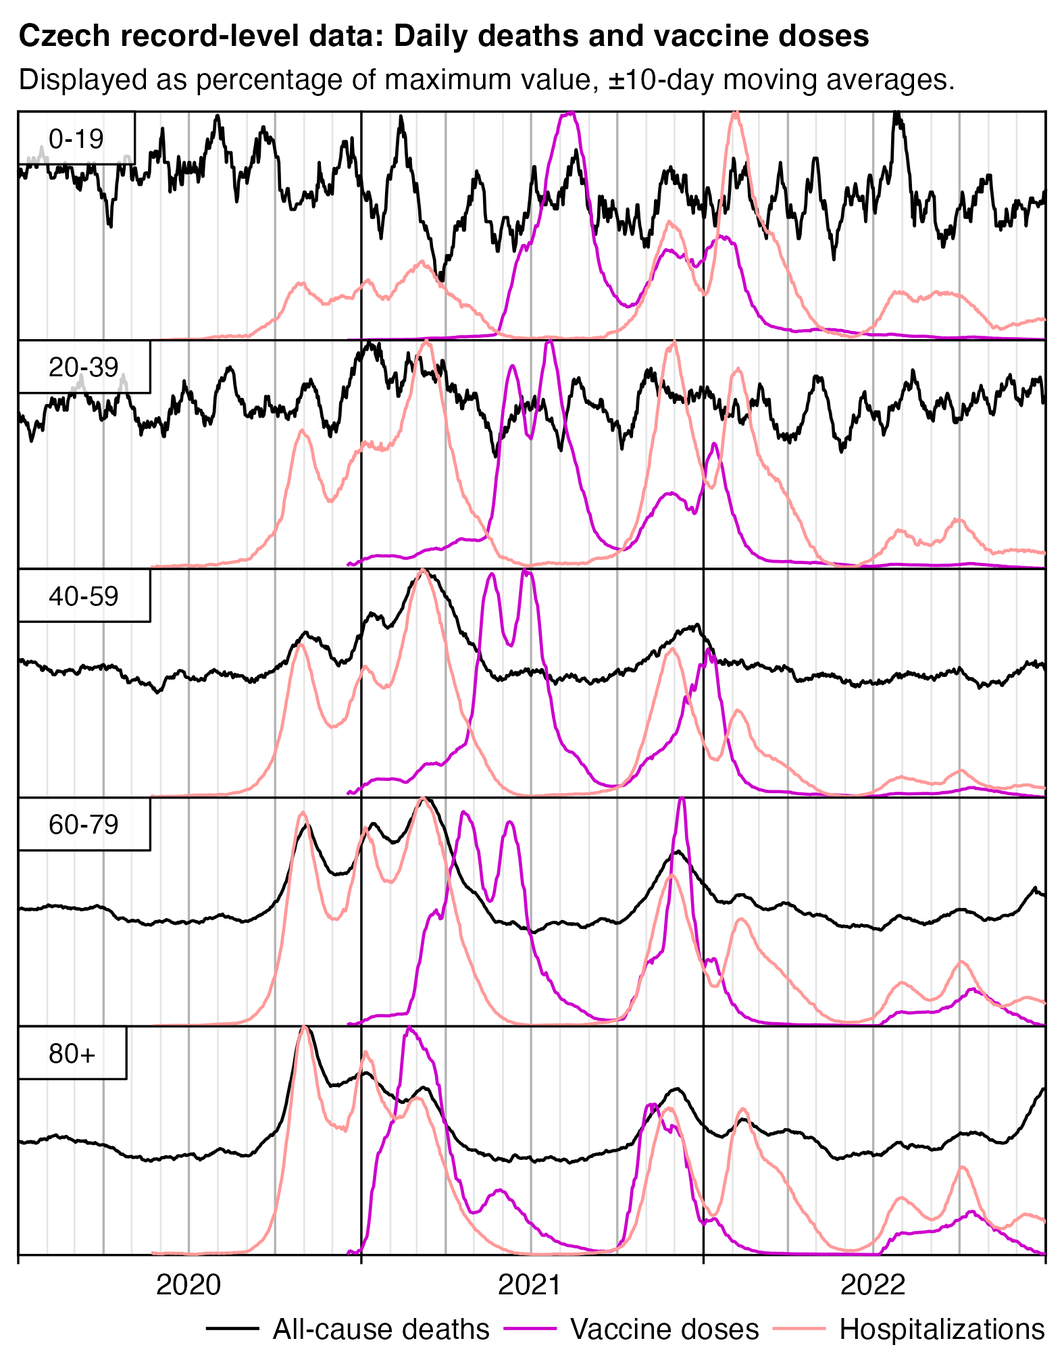
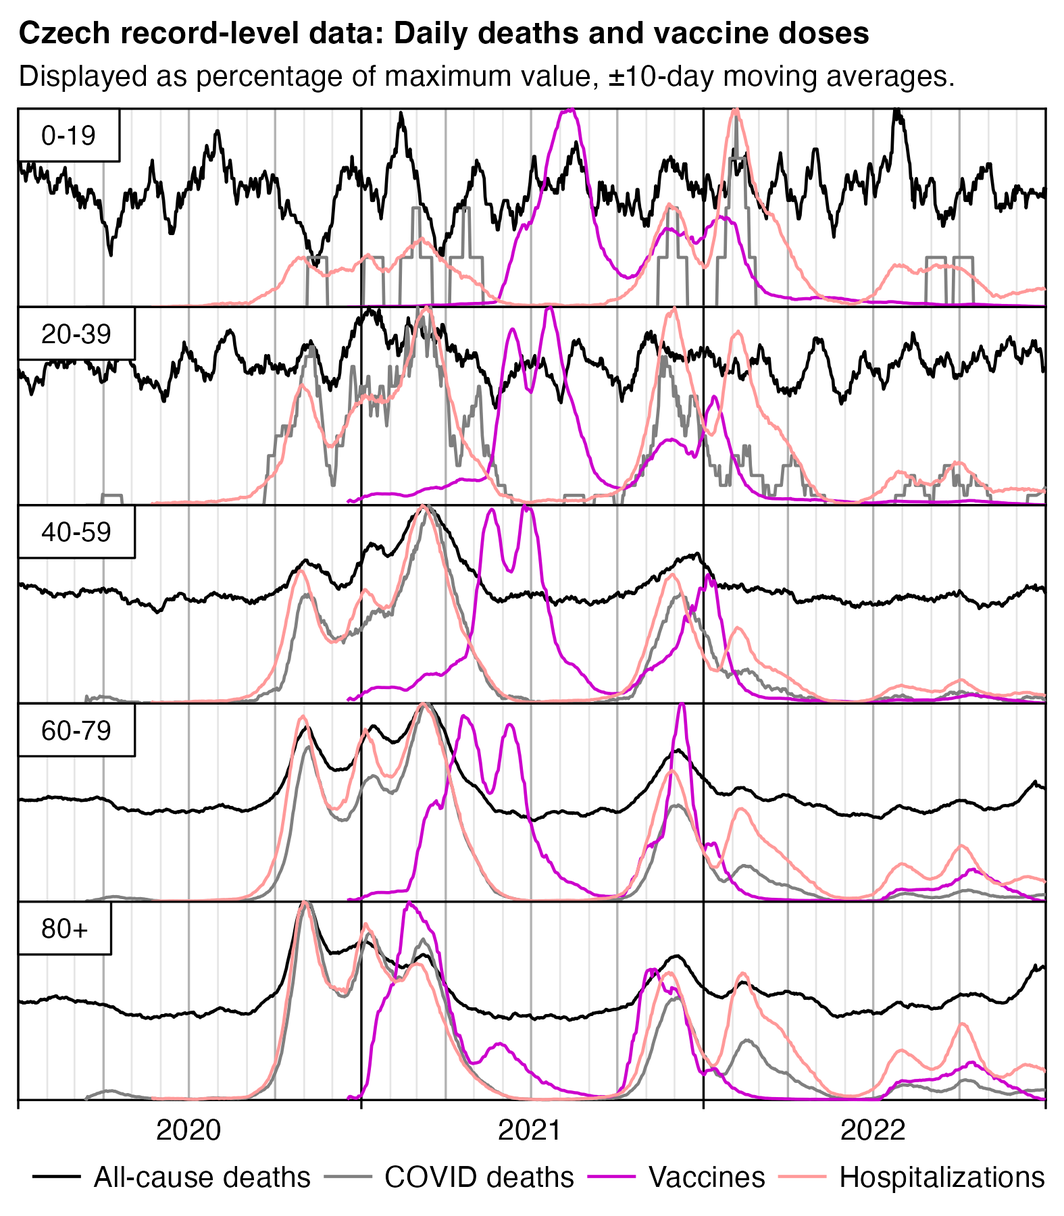
a

diff --git a/czech.html b/czech.html
@@ -76,6 +76,7 @@ th{background:#3a3a3a;text-align:left;font-weight:bold}
 <li><a href=#Hospitalizations_peaked_in_2022_in_youngest_age_groups>Hospitalizations peaked in 2022 in youngest age groups</a></li>
 <li><a href=#Moderna_Pfizer_ratio_in_ages_70_79_in_2021Q4>Moderna-Pfizer ratio in ages 70-79 in 2021Q4</a></li>
 <li><a href=#Triangle_plot_of_Moderna_Pfizer_ratio>Triangle plot of Moderna-Pfizer ratio</a></li>
+<li><a href=#Stacked_plot_of_multiple_variables_from_record_level_data_and_Czech_MoH_data>Stacked plot of multiple variables from record-level data and Czech MoH data</a></li>
 </ul>
 
 <h2>
@@ -98,9 +99,10 @@ th{background:#3a3a3a;text-align:left;font-weight:bold}
 <li><a href=f/czweeklydead.csv>f/czweeklydead.csv</a> (119 kiB): Weekly number of deaths by 5-year age groups published by the <a href=https://vdb.czso.cz/vdbvo2/faces/en/index.jsf?page=vystup-objekt-parametry&pvo=DEMD007KR-R2024&sp=A&skupId=3629&pvokc=&katalog=30845&z=T>Czech Statistical Bureau</a>.</li>
 <li><a href=f/czdeadproj.csv>f/czdeadproj.csv</a> (4 MiB): Daily projected deaths by 5-year age groups derived from a seasonality-adjusted linear trend in CMR in 2010-2019 multiplied by population size. Also includes daily deaths by 5-year age groups interpolated from weekly deaths by 5-year age groups and daily population estimates by 5-year age groups interpolated from Eurostat's yearly population estimates.</li>
 </ul>
-<p>COVID data:</p>
+<p>COVID data published by Czech ministry of health: [<a href="https://onemocneni-aktualne.mzcr.cz/api/v2/covid-19">https://onemocneni-aktualne.mzcr.cz/api/v2/covid-19</a>]</p>
 <ul>
-<li><a href="https://onemocneni-aktualne.mzcr.cz/api/v2/covid-19/nakazeni-hospitalizace-testy.csv">https://onemocneni-aktualne.mzcr.cz/api/v2/covid-19/nakazeni-hospitalizace-testy.csv</a> (34 MiB): Tests, hospitalizations, and cases by age group. Available from here: <a href="https://onemocneni-aktualne.mzcr.cz/api/v2/covid-19">https://onemocneni-aktualne.mzcr.cz/api/v2/covid-19</a>.</li>
+<li><a href="https://onemocneni-aktualne.mzcr.cz/api/v2/covid-19/nakazeni-hospitalizace-testy.csv">https://onemocneni-aktualne.mzcr.cz/api/v2/covid-19/nakazeni-hospitalizace-testy.csv</a> (34 MiB): Tests, hospitalizations, and cases by age group and day.</li>
+<li><a href="https://onemocneni-aktualne.mzcr.cz/api/v2/covid-19/umrti.csv">https://onemocneni-aktualne.mzcr.cz/api/v2/covid-19/umrti.csv</a> (3 MiB): COVID deaths by day and single year of age.</li>
 </ul>
 <h2>
 <a href=#Were_Pfizer_and_Moderna_vaccines_allocated_randomly id=Were_Pfizer_and_Moderna_vaccines_allocated_randomly>Were Pfizer and Moderna vaccines allocated randomly?</a>
@@ -357,7 +359,7 @@ type          2021-07 2021-08 2021-09 2021-10 2021-11 2021-12
 
 cutl=\(x,y)cut(x,c(y,Inf),y,T,F)
 isoweek=\(year,week,weekday=1){d=as.Date(paste0(year,&quot;-1-4&quot;));d-(as.integer(format(d,&quot;%w&quot;))+6)%%7-1+7*(week-1)+weekday}
-ma=\(x,b=1,f=b)rowMeans(embed(c(rep(NA,b),x,rep(NA,f)),f+b+1),na.rm=T)
+ma=\(x,b=1,f=b){x[]=rowMeans(embed(c(rep(NA,b),x,rep(NA,f)),f+b+1),na.rm=T);x}
 
 dead=read.csv(&quot;http://sars2.net/f/czweeklydead.csv&quot;)
 xstart=as.Date(&quot;2020-1-1&quot;);xend=as.Date(&quot;2022-12-31&quot;)
@@ -1126,8 +1128,8 @@ type              0   10   20   30   40   50   60   70   80   90
 <img src="i/czech-allpop.png">
 </div>
 <p>This shows that the percentage of vaccinated person-days out of all person-days first reached above 50% in March in ages 90+ and 80-89, in April in ages 70-79, in May in ages 60-69, and in June in ages 50-59:</p>
-<pre>&gt; t=fread(&quot;http://sars2.net/f/czbucketskeep.csv.gz&quot;)[dose&lt;=1]
-&gt; t[,.(vaxpct=sum(alive[dose==1])/sum(alive)*100),.(month,age=pmin(age%/%10*10,90))]|&gt;with(round(xtabs(vaxpct~month+age)[12:24,]))
+<pre>&gt; b=fread(&quot;http://sars2.net/f/czbucketskeep.csv.gz&quot;)[dose&lt;=1]
+&gt; b[,.(vaxpct=sum(alive[dose==1])/sum(alive)*100),.(month,age=pmin(age%/%10*10,90))][,round(xtabs(vaxpct~month+age))[12:24,]]
          age
 month      0 10 20 30 40 50 60 70 80 90
   2020-12  0  0  0  0  0  0  0  0  0  0
@@ -1285,33 +1287,35 @@ system(paste0(&quot;w=`identify -format %w i1.png`;pad=44;convert -gravity north
 <div class="width6">
 <img src="i/czech-facet-asmr.png">
 </div>
-<p>I haven't found data for COVID deaths by age group in the Czech Republic, but the CSV files from here have COVID hospitalizations by age group: <a href="https://onemocneni-aktualne.mzcr.cz/api/v2/covid-19">https://onemocneni-aktualne.mzcr.cz/api/v2/covid-19</a>. Hospitalizations also have similar three-hump pattern as all-cause deaths, and in ages 80+ the first hump is the highest and the third hump is the lowest, but in ages 60-79 and 40-59 the third hump is higher than the first hump:</p>
+<p>The Czech ministry of health has published CSV files for COVID deaths and hospitalizations by age: <a href="https://onemocneni-aktualne.mzcr.cz/api/v2/covid-19">https://onemocneni-aktualne.mzcr.cz/api/v2/covid-19</a>. Both COVID deaths and hospitalizations also have similar three-hump pattern as all-cause deaths, and in ages 80+ the first hump is the highest and the third hump is the lowest, but in ages 60-79 and 40-59 the third hump is higher than the first hump:</p>
 <div class="width6">
 <img src="i/czech-facet-hosp.png">
 </div>
 <pre>download.file(&quot;https://onemocneni-aktualne.mzcr.cz/api/v2/covid-19/nakazeni-hospitalizace-testy.csv&quot;,&quot;nakazeni-hospitalizace-testy.csv&quot;)
+download.file(&quot;http://sars2.net/f/czbucketsdaily.csv.gz&quot;,&quot;czbucketsdaily.csv.gz&quot;)
+download.file(&quot;https://onemocneni-aktualne.mzcr.cz/api/v2/covid-19/umrti.csv&quot;,&quot;umrti.csv&quot;)
 
 library(data.table);library(ggplot2)
 
 ma=\(x,b=1,f=b)setNames(rowMeans(embed(c(rep(NA,b),x,rep(NA,f)),f+b+1),na.rm=T),names(x))
 ua=\(x,y,...){u=unique(x);y(u,...)[match(x,u)]}
-age=\(x,y){class(x)=class(y)=NULL;(y-x-(y-789)%/%1461+(x-789)%/%1461)%/%365}
+age=\(x,y){x=as.numeric(x);y=as.numeric(y);(y-x-(y-789)%/%1461+(x-789)%/%1461)%/%365}
 
 agecut=\(x,ages=seq(0,90,10))cut(pmax(x,0),c(ages,Inf),paste0(ages,c(paste0(&quot;-&quot;,ages[-1]-1),&quot;+&quot;)),T,F)
-ages=0:4*20
 # ages=c(0,12,18,30,40,60,85)
+ages=0:4*20
 agelev=agecut(0:120,ages)
 
 xstart=as.Date(&quot;2020-01-01&quot;);xend=as.Date(&quot;2023-1-1&quot;)
 
 rec=fread(&quot;Czech/data/CR_records.csv&quot;,showProgress=F)
-set.seed(0);rec[,birth:=ua(paste0(Rok_narozeni,&quot;-1-1&quot;),as.Date)+sample(0:364,.N,T)]
+set.seed(0);rec$birth=ua(paste0(rec$Rok_narozeni,&quot;-1-1&quot;),as.Date)+sample(0:364,nrow(rec),T)
 dead=rec[!is.na(DatumUmrti),.(dead=.N),.(date=DatumUmrti,age=agelev[pmax(0,age(birth,DatumUmrti))+1])]
-k=grep(&quot;Datum&quot;,names(rec));dt=data.table(date=`class&lt;-`(unlist(rec[,..k],,F),&quot;IDate&quot;),birth=rec$birth)
-p=merge(dead,dt[!is.na(date)][,.(vax=.N),.(date,age=agelev[pmax(0,age(birth,date))+1])])
+k=grep(&quot;Datum_&quot;,names(rec));dt=data.table(date=as.IDate(unlist(rec[,..k],use.names=F)),birth=rec$birth)
+p=merge(dead,dt[!is.na(date)][,.(vax=.N),.(date,age=agelev[pmax(0,age(birth,date))+1])],all=T)
 
 std=fread(&quot;http://sars2.net/f/czcensus2021pop.csv&quot;)$pop
-buck=fread(&quot;http://sars2.net/f/czbucketsdaily.csv.gz&quot;)
+buck=fread(&quot;czbucketsdaily.csv.gz&quot;)
 buck=rbind(buck,cbind(expand.grid(date=as.IDate(xstart:xend),age=0:100,dose=unique(buck$dose)),alive=0,dead=0))|&gt;unique(by=1:3)
 unvax=buck[dose==0&amp;alive&gt;=1e3,.(dead=sum(dead),alive=sum(alive)),.(date,age2=age)]
 vax=buck[dose&gt;0&amp;alive&gt;=1e3,.(dead=sum(dead),alive=sum(alive)),.(date,age2=age)]
@@ -1323,23 +1327,30 @@ testy=fread(&quot;nakazeni-hospitalizace-testy.csv&quot;,na.strings=&quot;-&quot
 testy=testy[,.(tests=sum(provedene_testy,na.rm=T),cases=sum(potvrzene_pripady,na.rm=T),hosp=sum(nove_hospitalizace,na.rm=T)),.(date=datum,age=agelev[as.numeric(sub(&quot;[-+].*&quot;,&quot;&quot;,vekova_kategorie))+1])][!is.na(age)]
 p=merge(p,testy[tests&gt;0,.(date,age,pcr=cases/tests*100,hosp)],all=T)
 
+p=merge(p,fread(&quot;umrti.csv&quot;)[,.(coviddead=.N),.(date=datum,age=agelev[vek+1])],all=T)
+
 p=p[date%in%xstart:xend]
+
 p$dead[is.na(p$dead)]=0
+p$coviddead[is.na(p$coviddead)&amp;p$date&gt;p$date[!is.na(p$coviddead)][1]]=0
+p$vax[is.na(p$vax)&amp;p$date&gt;p$date[!is.na(p$vax)][1]]=0
+p$hosp[is.na(p$hosp)&amp;p$date&gt;p$date[!is.na(p$hosp)][1]]=0
 
 xbreak=seq(xstart,xend,&quot;6 month&quot;);xlab=c(rbind(&quot;&quot;,2020:2022),&quot;&quot;)
 
 var=read.csv(row.names=1,text=&quot;name,group
-dead,Deaths,1
+dead,All-cause deaths,1
 vax,Vaccines,2
 asmr1,Unvaccinated ASMR,3
 asmr2,Vaccinated ASMR,3
 hosp,Hospitalizations,4
-pcr,PCR positivity,5&quot;)
-var$color=c(&quot;black&quot;,&quot;#cc00cc&quot;,hsv(7/12,1,.8),hsv(0,1,.8),hsv(0,.4,1),hsv(1/3,1,.7))
+pcr,PCR positivity,5
+coviddead,COVID deaths,6&quot;)
+var$color=c(&quot;black&quot;,&quot;#cc00cc&quot;,hsv(7/12,1,.8),hsv(0,1,.8),hsv(0,.4,1),hsv(1/3,1,.7),&quot;gray50&quot;)
 
-keep=c(&quot;dead&quot;,&quot;vax&quot;)
+# keep=c(&quot;dead&quot;,&quot;vax&quot;)
 # keep=c(&quot;vax&quot;,&quot;asmr1&quot;,&quot;asmr2&quot;)
-# keep=c(&quot;dead&quot;,&quot;vax&quot;,&quot;hosp&quot;,&quot;pcr&quot;)
+keep=c(&quot;dead&quot;,&quot;coviddead&quot;,&quot;vax&quot;,&quot;hosp&quot;)
 long=cbind(p[,1:2],y=unlist(p[,..keep],,F),z=factor(rep(keep,each=nrow(p)),keep))
 color=var[keep,]$color
 long[,mav:=ma(y,10),.(age,z)]
@@ -1351,8 +1362,7 @@ ggplot(long,aes(x=date))+
 facet_wrap(~age,ncol=1,strip.position=&quot;top&quot;)+
 geom_vline(xintercept=seq(xstart,xend,&quot;month&quot;),linewidth=.2,color=&quot;gray90&quot;)+
 geom_vline(xintercept=seq(xstart,xend,&quot;3 month&quot;),linewidth=.25,color=&quot;gray70&quot;)+
-geom_vline(xintercept=seq(xstart,xend,&quot;year&quot;),linewidth=.25,lineend=&quot;square&quot;,color=&quot;black&quot;)+
-geom_vline(xintercept=c(xstart,xend),linewidth=.25,lineend=&quot;square&quot;)+
+geom_vline(xintercept=seq(xstart,xend,&quot;year&quot;),linewidth=.25,lineend=&quot;square&quot;)+
 geom_hline(yintercept=0:1,linewidth=.25,lineend=&quot;square&quot;)+
 geom_line(aes(y=mav/max,color=z),linewidth=.35)+
 geom_label(data=data.frame(age=levels(p$age)),aes(label=paste0(&quot;\n   &quot;,age,&quot;   \n&quot;)),x=xstart,y=1,lineheight=.5,hjust=0,vjust=1,size=2.3,fill=alpha(&quot;white&quot;,1),label.r=unit(0,&quot;lines&quot;),label.padding=unit(0,&quot;lines&quot;),label.size=.25)+
@@ -1361,6 +1371,7 @@ scale_x_date(limits=c(xstart,xend),breaks=xbreak,labels=xlab)+
 scale_y_continuous(limits=0:1)+
 scale_color_manual(values=color)+
 coord_cartesian(clip=&quot;off&quot;,expand=F)+
+guides(color=guide_legend(nrow=1,byrow=F))+
 theme(axis.text=element_text(size=7,color=&quot;black&quot;),
   axis.text.y=element_blank(),
   axis.ticks=element_blank(),
@@ -1374,7 +1385,7 @@ theme(axis.text=element_text(size=7,color=&quot;black&quot;),
   legend.key.height=unit(.7,&quot;lines&quot;),
   legend.key.width=unit(1.1,&quot;lines&quot;),
   legend.key=element_rect(fill=alpha(&quot;white&quot;,0)),
-  legend.margin=margin(.1,0,0,0,&quot;lines&quot;),
+  legend.margin=margin(.15,0,0,0,&quot;lines&quot;),
   legend.position=&quot;bottom&quot;,
   legend.spacing.x=unit(.1,&quot;lines&quot;),
   legend.text=element_text(size=7,vjust=.5),
@@ -1384,7 +1395,7 @@ theme(axis.text=element_text(size=7,color=&quot;black&quot;),
   panel.grid=element_blank(),
   plot.margin=margin(.3,.3,.3,.3,&quot;lines&quot;),
   plot.subtitle=element_text(size=7,margin=margin(0,0,.6,0,&quot;lines&quot;)),
-  plot.title=element_text(size=7.5,face=&quot;bold&quot;,margin=margin(.2,0,.5,0,&quot;lines&quot;)),
+  plot.title=element_text(size=7.5,face=&quot;bold&quot;,margin=margin(.1,0,.5,0,&quot;lines&quot;)),
   strip.background=element_blank(),
   strip.text=element_blank())
 ggsave(&quot;1.png&quot;,width=3.5,height=4,dpi=450)</pre>
@@ -1425,7 +1436,7 @@ MD5 (Vesely_106_202403141131.csv) = c42ead8cf4685910068d0c7d4cc4c720</pre>
 &gt; name1=c(&quot;Comirnaty&quot;,&quot;SPIKEVAX&quot;,&quot;VAXZEVRIA&quot;,&quot;COVID-19 Vaccine Janssen&quot;,&quot;&quot;)
 &gt; name2=c(&quot;Pfizer&quot;,&quot;Moderna&quot;,&quot;AstraZeneca&quot;,&quot;Janssen&quot;,&quot;&quot;)
 &gt; type=ifelse(type%in%name1,name2[match(type,name1)],&quot;Other&quot;)
-&gt; m=data.table(date,type)[type!=&quot;&quot;,.N,.(date,type)]|&gt;with(xtabs(N~date+type))
+&gt; m=data.table(date,type)[type!=&quot;&quot;,.N,.(date,type)][,xtabs(N~date+type)]
 &gt; round(m/rowSums(m)*100,1)
          type
 date      AstraZeneca Janssen Moderna Other Pfizer
@@ -1505,7 +1516,7 @@ year      0  20  40  60  80 Total
 &gt; t=t[,.(alive=sum(as.double(alive)),dead=sum(dead)),.(dose,month,age=factor(pmin(100,age%/%10*10)))]
 &gt; t=rbind(t,t[,.(alive=sum(alive),dead=sum(dead),month=&quot;Total&quot;),.(age,dose)])
 &gt; t=rbind(t,t[,.(alive=sum(alive),dead=sum(dead),age=&quot;Total&quot;),.(month,dose)])
-&gt; t[,.(vaxpct=sum(alive[dose==1])/sum(alive)*100),.(month,age)]|&gt;with(round(xtabs(vaxpct~month+age)))
+&gt; t[,.(vaxpct=sum(alive[dose==1])/sum(alive)*100),.(month,age)][,round(xtabs(vaxpct~month+age))]
          age
 month      0 10 20 30 40 50 60 70 80 90 100 Total
   2020-12  0  0  0  0  0  0  0  0  0  0   0     0
@@ -1537,7 +1548,7 @@ month      0 10 20 30 40 50 60 70 80 90 100 Total
 <h2>
 <a href=#Hospitalizations_peaked_in_2022_in_youngest_age_groups id=Hospitalizations_peaked_in_2022_in_youngest_age_groups>Hospitalizations peaked in 2022 in youngest age groups</a>
 </h2>
-<p>I didn't find data for COVID deaths by age in Czech Republic, but the CSV files from here have data for hospitalizations by age: <a href="https://onemocneni-aktualne.mzcr.cz/api/v2/covid-19">https://onemocneni-aktualne.mzcr.cz/api/v2/covid-19</a>. In ages 0-11, 12-17, and 18-29, the highest peak in COVID hospitalizations was in early 2022, which might be because people under 30 were less likely to be vaccinated than older age groups:</p>
+<p>The Czech ministry of health has published data for hospitalizations by age: <a href="https://onemocneni-aktualne.mzcr.cz/api/v2/covid-19">https://onemocneni-aktualne.mzcr.cz/api/v2/covid-19</a>. In ages 0-11, 12-17, and 18-29, the highest peak in COVID hospitalizations was in early 2022, which might be because people the youngest age groups were less likely to be vaccinated in 2022 than older age groups:</p>
 <div class="width6">
 <img src="i/czech-facetbig.png">
 </div>
@@ -1634,10 +1645,10 @@ vaxquarter  0   10   20   30   40   50   60   70   80    90  100 Total
 <a href=#Triangle_plot_of_Moderna_Pfizer_ratio id=Triangle_plot_of_Moderna_Pfizer_ratio>Triangle plot of Moderna-Pfizer ratio</a>
 </h2>
 <p>In the plot below I calculated mortality relative to the baseline using the same method as in earlier sections of this HTML file, so that for each cell of the heatmap, I multiplied a vector of the number of person-days for each age by a vector of mortality rates the same month among each age in the total population that is included in the record-level data.</p>
-<p>Moderna had 18019 actual deaths and about 18220.05 expected deaths, and Pfizer had 94068 actual deaths and about 125238.85 expected deaths, so I calculated the total Moderna-Pfizer ratio as <code>(18019/18220.05)/(94068/125238.85)</code> which is about 1.32.</p>
+<p>For example Moderna had 18019 actual deaths and about 18220.05 expected deaths, and Pfizer had 94068 actual deaths and about 125238.85 expected deaths, so I calculated the total Moderna-Pfizer ratio as <code>(18019/18220.05)/(94068/125238.85)</code>, which is about 1.32.</p>
 <p>The plot below shows that people who were vaccinated in January 2021 had a total Moderna-Pfizer ratio of about 2.3. However the ratio continued to remain high even in late 2022 which was almost two years after vaccination. But if the reason why the total Moderna-Pfizer ratio is above 1 is because Moderna vaccines killed more people like Kirsch is saying, then you'd expect the deaths to be concentrated in the weeks or months following vaccination when vaccine deaths are the most common, so that the ratio would get closer to zero over time and it wouldn't remain at a high level even two years after vaccination.</p>
 <p>The plot also shows that people who got vaccinated in the fourth quarter of 2021 had a Moderna-Pfizer ratio close to 1.0, and the ratio continued to remain around the same level even a year later.</p>
-<p>The Czech data seems to have some confounding factors which cause people who got the first dose in late 2021 to subsequently have much higher excess mortality than people who got the first dose around the rollout peak in May 2021. But in the same way there seem to be some confounding factors which cause the Moderna-Pfizer ratio to shift from about 1.58 in May 2021 to around 1.00 in the fourth quarter of 2021.</p>
+<p>The Czech data seems to have some confounding factors which cause people who got the first dose in late 2021 to subsequently have much higher excess mortality than people who got the first dose around the rollout peak in May 2021. But in the same way there seem to be some confounding factors which cause the Moderna-Pfizer ratio to shift from about 1.58 in people vaccinated in May 2021 to around 1.00 in people who were vaccinated in the fourth quarter of 2021.</p>
 <div class="width9">
 <img src="i/czech-mrr-triangle.png">
 </div>
@@ -1684,6 +1695,129 @@ pheatmap::pheatmap(pop^exp2,filename=&quot;pop.png&quot;,display_numbers=kimi(po
   breaks=seq(0,maxcolor2^exp2,,256),sapply(seq(1,0,,256),\(i)rgb(i,i,i)))
 
 system(&quot;convert {mort,pop}.png +append 0.png;w=`identify -format %w 0.png`;pad=48;convert \\( -pointsize 46 -font Arial-Bold -size $[w-pad]x caption:&#39;Czech record-level data: Moderna-Pfizer mortality ratio from day of first dose until end of 2022&#39; \\( -gravity northwest -splice x12 -pointsize 42 -font Arial -interline-spacing -2 caption:&#39;The y-axis shows the month of vaccination and the x-axis shows the month of death. The two columns on the right show the number of people who got vaccinated each month. Only first doses included. Pfizer vaccines only include vaccines with type string \&quot;Comirnaty\&quot; and not Pfizer&#39;\\&#39;&#39;s Omicron or pediatric vaccine types.&#39; \\) -extent $[w-pad]x -gravity center \\) \\( -gravity north 0.png -shave x6 \\) -append -gravity north -splice x20 1.png&quot;)</pre>
+<h2>
+<a href=#Stacked_plot_of_multiple_variables_from_record_level_data_and_Czech_MoH_data id=Stacked_plot_of_multiple_variables_from_record_level_data_and_Czech_MoH_data>Stacked plot of multiple variables from record-level data and Czech MoH data</a>
+</h2>
+<p>The plot below shows that around March 2021 and November-December 2021, unvaccinated people had large spikes in ASMR which coincided with spikes in PCR positivity rate, hospitalizations, COVID deaths, and COVID cases. But in vaccinated people the two spikes were in ASMR much smaller, even though in the case of the first spike around March 2021, it's probably at least partially because there were many recently vaccinated people who had a temporarily lowered mortality rate because of the healthy vaccine effect.</p>
+<div class="width6">
+<img src="i/czech-stack.png">
+</div>
+<pre># download.file(&quot;https://onemocneni-aktualne.mzcr.cz/api/v2/covid-19/nakazeni-hospitalizace-testy.csv&quot;,&quot;nakazeni-hospitalizace-testy.csv&quot;)
+# download.file(&quot;http://sars2.net/f/czbucketsdaily.csv.gz&quot;,&quot;czbucketsdaily.csv.gz&quot;)
+# download.file(&quot;https://onemocneni-aktualne.mzcr.cz/api/v2/covid-19/umrti.csv&quot;,&quot;umrti.csv&quot;)
+
+library(data.table);library(ggplot2)
+
+ma=\(x,b=1,f=b)setNames(rowMeans(embed(c(rep(NA,b),x,rep(NA,f)),f+b+1),na.rm=T),names(x))
+ua=\(x,y,...){u=unique(x);y(u,...)[match(x,u)]}
+age=\(x,y){x=as.numeric(x);y=as.numeric(y);(y-x-(y-789)%/%1461+(x-789)%/%1461)%/%365}
+
+xstart=as.Date(&quot;2020-01-01&quot;);xend=as.Date(&quot;2023-1-1&quot;)
+xbreak=seq(xstart,xend,&quot;6 month&quot;);xlab=c(rbind(&quot;&quot;,2020:2022),&quot;&quot;)
+
+rec=fread(&quot;Czech/data/CR_records.csv&quot;,showProgress=F)
+p=rec[!is.na(DatumUmrti),.(dead=.N),.(date=DatumUmrti,type=as.numeric(!is.na(Datum_1))+1)]
+p=rbind(p,p[,.(dead=sum(dead),type=0),date])
+p=dcast(p,date~paste0(&quot;dead&quot;,type),value.var=&quot;dead&quot;)
+
+k=grep(&quot;Datum_&quot;,names(rec))
+p=merge(p,data.table(date=as.IDate(unlist(rec[,..k],use.names=F)))[!is.na(date)][,.(vax=.N),date],all=T)
+
+std=fread(&quot;http://sars2.net/f/czcensus2021pop.csv&quot;)$pop
+buck=fread(&quot;czbucketsdaily.csv.gz&quot;)
+buck=rbind(buck,cbind(expand.grid(date=as.IDate(xstart:xend),age=0:100,dose=unique(buck$dose)),alive=0,dead=0))|&gt;unique(by=1:3)
+asmrtot=buck[,.(dead=sum(dead),alive=sum(alive),type=0),.(date,age)][alive&gt;=1e3]
+asmr=rbind(asmrtot,buck[,.(dead=sum(dead),alive=sum(alive)),.(date,age,type=as.integer(dose&gt;=1)+1)])
+asmr=asmr[alive&gt;=1e3,.(asmr=sum(dead/alive*std[pmin(age,100)+1]/sum(std)*365e5)),.(date,type)]
+p=merge(p,dcast(asmr,date~paste0(&quot;asmr&quot;,type),value.var=&quot;asmr&quot;))
+
+pop=buck[,.(pop=sum(alive)),.(date,type=as.integer(dose&gt;1)+1)]
+pop=rbind(pop,pop[,.(pop=sum(pop),type=0),date])
+p=merge(p,dcast(pop,date~paste0(&quot;pop&quot;,type),value.var=&quot;pop&quot;),all=T)
+
+testy=fread(&quot;nakazeni-hospitalizace-testy.csv&quot;,na.strings=&quot;-&quot;)
+testy=testy[,.(tests=sum(provedene_testy,na.rm=T),cases=sum(potvrzene_pripady,na.rm=T),hosp=sum(nove_hospitalizace,na.rm=T)),.(date=datum)]
+p=merge(p,testy[tests&gt;0,.(date,pcr=cases/tests*100,hosp,cases)],all=T)
+
+p=merge(p,fread(&quot;umrti.csv&quot;)[,.(coviddead=.N),.(date=datum)],all=T)
+
+p=p[date%in%xstart:xend]
+
+p$dead[is.na(p$dead)]=0
+p$coviddead[is.na(p$coviddead)&amp;p$date&gt;p$date[!is.na(p$coviddead)][1]]=0
+p$vax[is.na(p$vax)&amp;p$date&gt;p$date[!is.na(p$vax)][1]]=0
+p$hosp[is.na(p$hosp)&amp;p$date&gt;p$date[!is.na(p$hosp)][1]]=0
+
+var=read.csv(row.names=1,text=&quot;group,group2
+pop0,Population size of record-level data,All
+pop1,Population size of record-level data,Unvaccinated
+pop2,Population size of record-level data,Vaccinated
+dead0,All-cause deaths,All
+dead1,All-cause deaths,Unvaccinated
+dead2,All-cause deaths,Vaccinated
+asmr0,ASMR,All
+asmr1,ASMR,Unvaccinated
+asmr2,ASMR,Vaccinated
+hosp,Hospitalizations,All
+pcr,PCR positivity percent,All
+coviddead,COVID deaths,All
+cases,COVID cases,All
+vax,New vaccine doses,All&quot;)
+var$group=factor(var$group,unique(var$group))
+var$group2=factor(var$group2,unique(var$group2))
+
+keep=c(&quot;dead0&quot;,&quot;dead1&quot;,&quot;dead2&quot;,&quot;asmr0&quot;,&quot;asmr1&quot;,&quot;asmr2&quot;,&quot;vax&quot;,&quot;coviddead&quot;,&quot;hosp&quot;,&quot;cases&quot;,&quot;pcr&quot;)
+long=cbind(p[,1:2],y=unlist(p[,..keep],,F),z=factor(rep(keep,each=nrow(p)),keep))
+long[,mav:=ma(y,10),z]
+long[,group:=var[levels(z)[z],]$group]
+long[,group2:=var[levels(z)[z],]$group2]
+max=long[,.(max=max(mav,na.rm=T)),group]
+long=merge(long,max)
+
+color=c(&quot;black&quot;,hsv(c(7,0)/12,1,.8))
+
+ggplot(long,aes(x=date))+
+facet_wrap(~group,ncol=1,strip.position=&quot;top&quot;)+
+geom_vline(xintercept=seq(xstart,xend,&quot;month&quot;),linewidth=.2,color=&quot;gray90&quot;)+
+geom_vline(xintercept=seq(xstart,xend,&quot;3 month&quot;),linewidth=.25,color=&quot;gray70&quot;)+
+geom_vline(xintercept=seq(xstart,xend,&quot;year&quot;),linewidth=.25,lineend=&quot;square&quot;)+
+geom_hline(yintercept=0:1,linewidth=.25,lineend=&quot;square&quot;)+
+geom_line(aes(y=mav/max,color=group2),linewidth=.35)+
+geom_label(data=max,aes(label=sprintf(&quot;\n   %s (%.0f)  \n&quot;,group,max)),x=xstart,y=1,lineheight=.5,hjust=0,vjust=1,size=2.3,fill=alpha(&quot;white&quot;,.85),label.r=unit(0,&quot;lines&quot;),label.padding=unit(0,&quot;lines&quot;),label.size=.25)+
+labs(x=NULL,y=NULL,title=&quot;Czech record-level data and MoH data: Daily moving averages&quot;,subtitle=&quot;Displayed as percentage of the maximum value which is shown in parentheses, ±10-day moving averages.&quot;|&gt;stringr::str_wrap(70))+
+scale_x_date(limits=c(xstart,xend),breaks=xbreak,labels=xlab)+
+scale_y_continuous(limits=0:1)+
+scale_color_manual(values=color)+
+coord_cartesian(clip=&quot;off&quot;,expand=F)+
+guides(color=guide_legend(nrow=1,byrow=F))+
+theme(axis.text=element_text(size=7,color=&quot;black&quot;),
+  axis.text.y=element_blank(),
+  axis.ticks=element_blank(),
+  axis.ticks.x=element_line(color=alpha(&quot;black&quot;,c(1,0)),linewidth=.25),
+  axis.ticks.length=unit(0,&quot;lines&quot;),
+  axis.ticks.length.x=unit(.15,&quot;lines&quot;),
+  legend.background=element_blank(),
+  legend.box.spacing=unit(0,&quot;pt&quot;),
+  legend.direction=&quot;horizontal&quot;,
+  legend.justification=c(1,.5),
+  legend.key.height=unit(.7,&quot;lines&quot;),
+  legend.key.width=unit(1.1,&quot;lines&quot;),
+  legend.key=element_rect(fill=alpha(&quot;white&quot;,0)),
+  legend.margin=margin(.15,0,0,0,&quot;lines&quot;),
+  legend.position=&quot;bottom&quot;,
+  legend.spacing.x=unit(.1,&quot;lines&quot;),
+  legend.text=element_text(size=7,vjust=.5),
+  legend.title=element_blank(),
+  panel.spacing=unit(0,&quot;lines&quot;),
+  panel.background=element_rect(fill=&quot;white&quot;),
+  panel.grid=element_blank(),
+  plot.margin=margin(.3,.3,.3,.3,&quot;lines&quot;),
+  plot.subtitle=element_text(size=7,margin=margin(0,0,.6,0,&quot;lines&quot;)),
+  plot.title=element_text(size=7.3,face=&quot;bold&quot;,margin=margin(.1,0,.5,0,&quot;lines&quot;)),
+  strip.background=element_blank(),
+  strip.text=element_blank())
+ggsave(&quot;1.png&quot;,width=3.3,height=4.7,dpi=450)
+qp()</pre>
 <script>
 let q=document.querySelectorAll('a,code,pre')
 for(let i=0;e=q[i];i++)e.innerHTML=e.innerHTML.replace(/(\w{60,})/g,x=>x.replace(/./g,"$&<wbr>")).replace(/([\041-\045\047-\057\072\075\077-\100\133-\137\173-\176])/g,"$1<wbr>")
